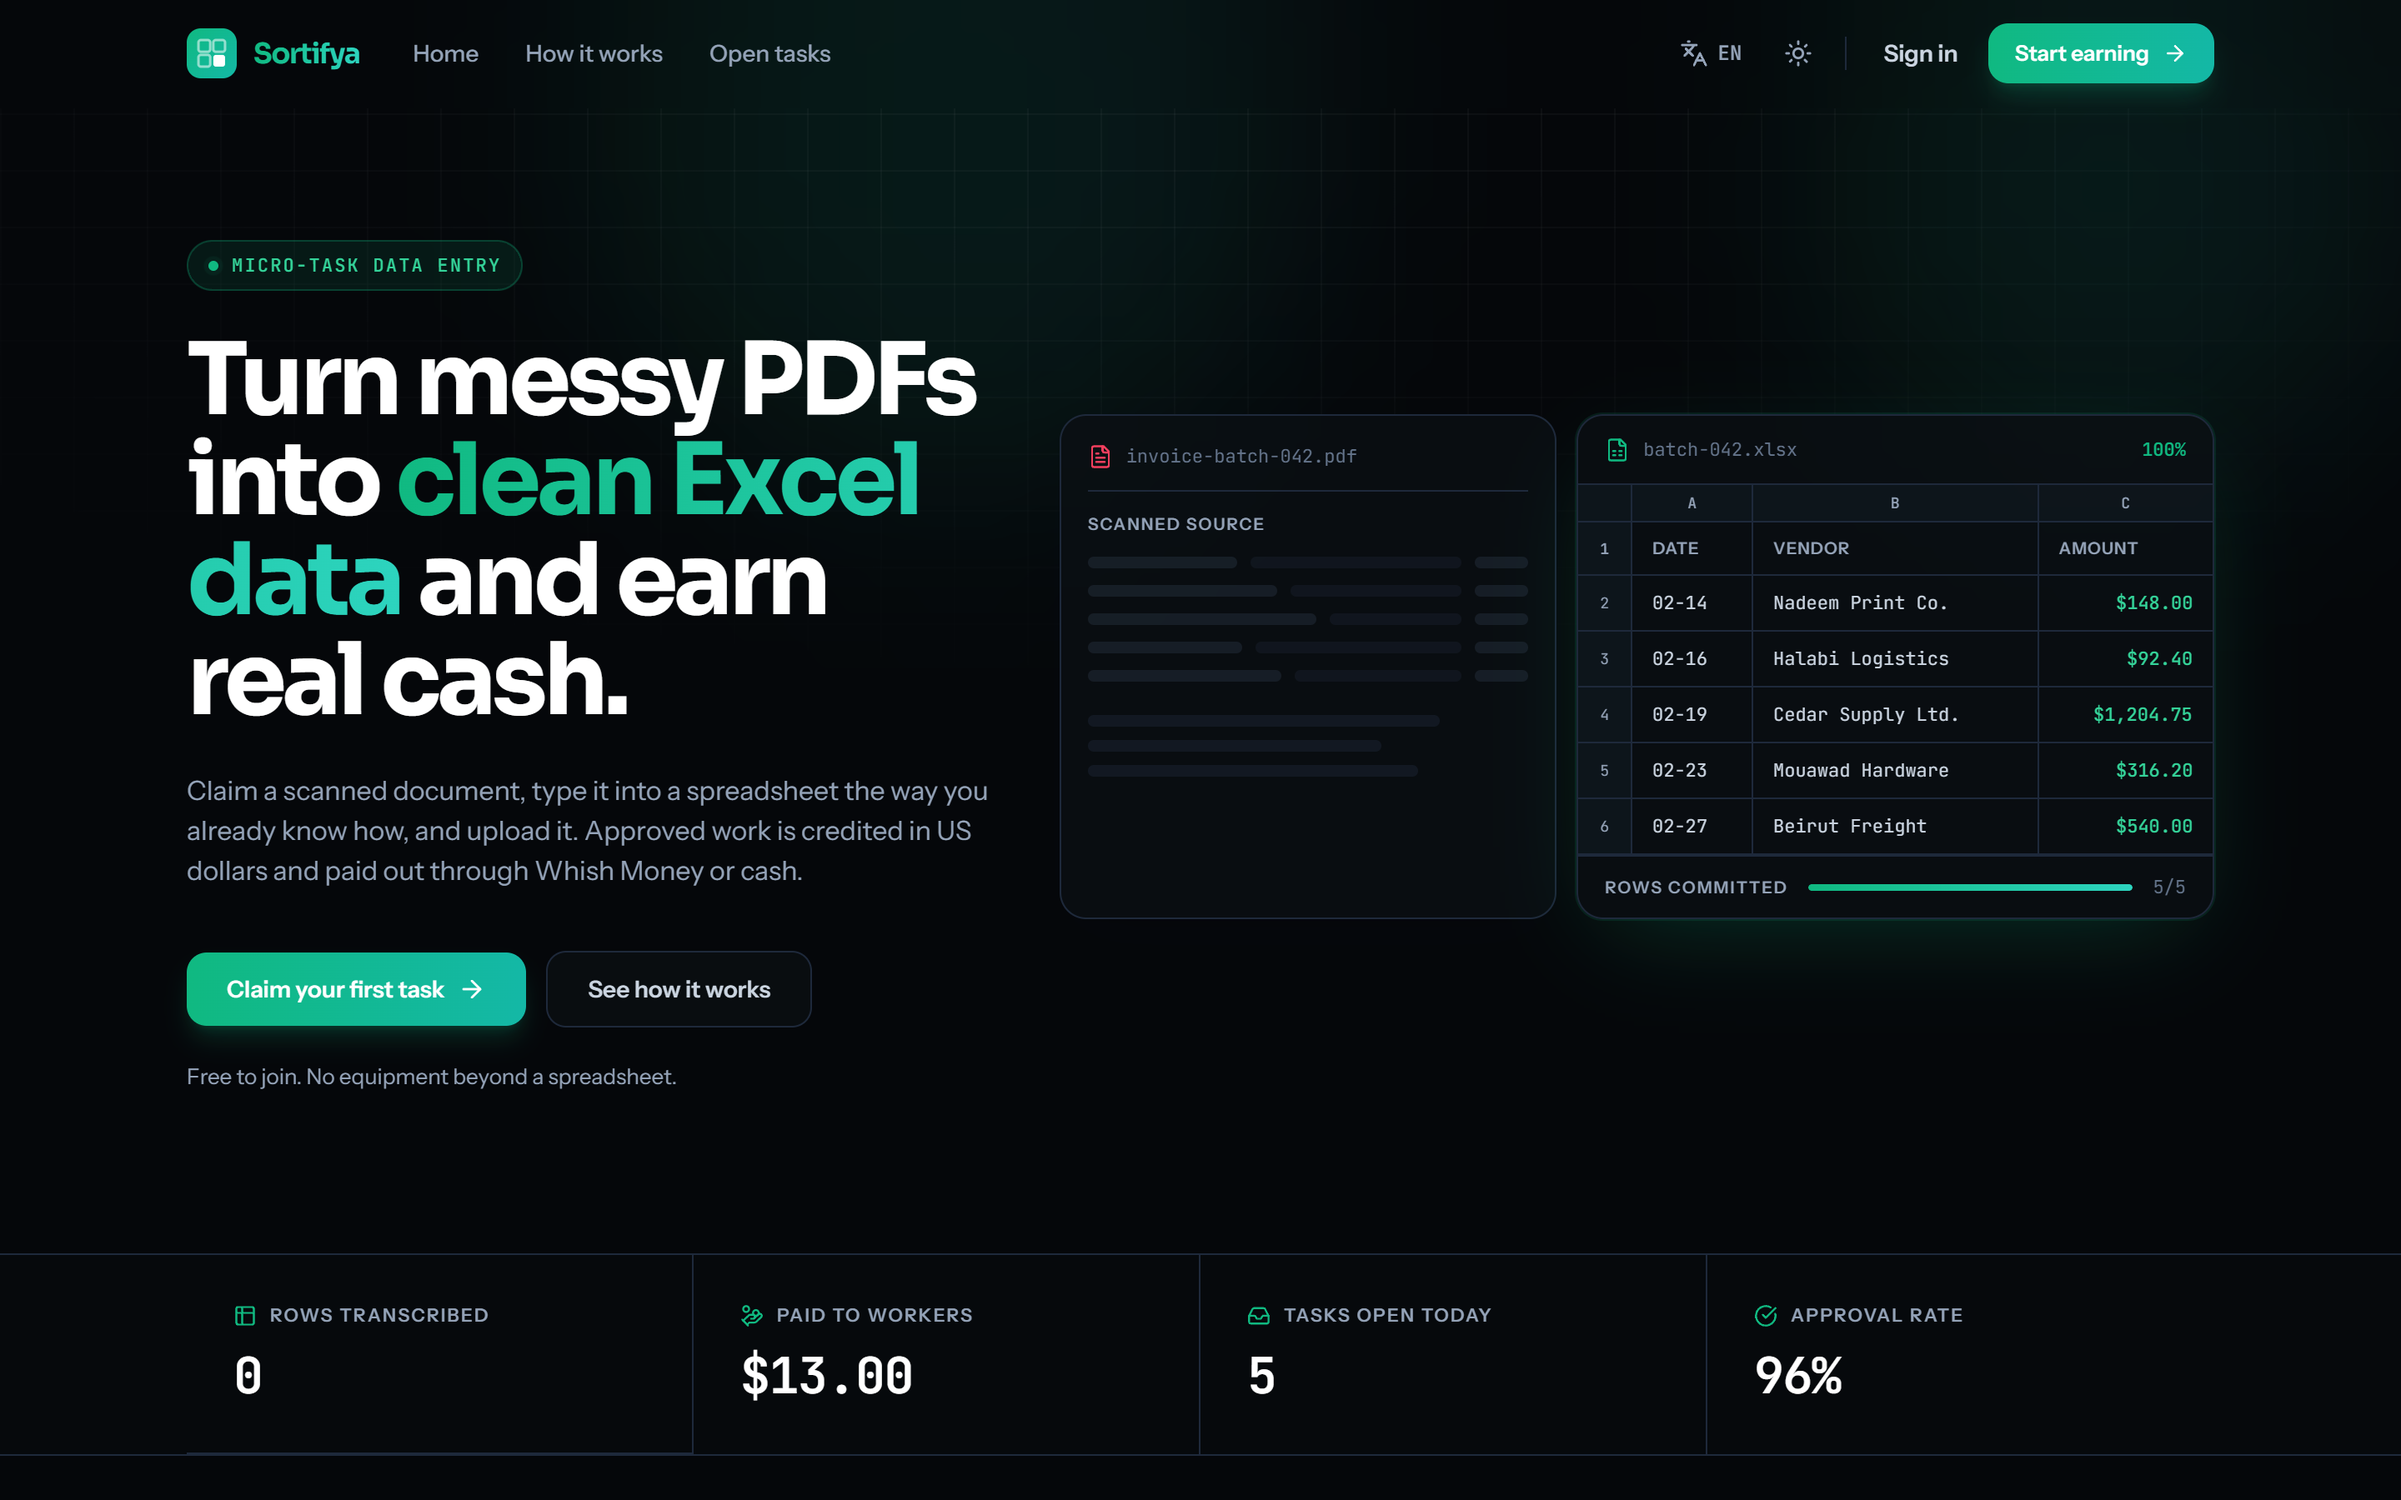
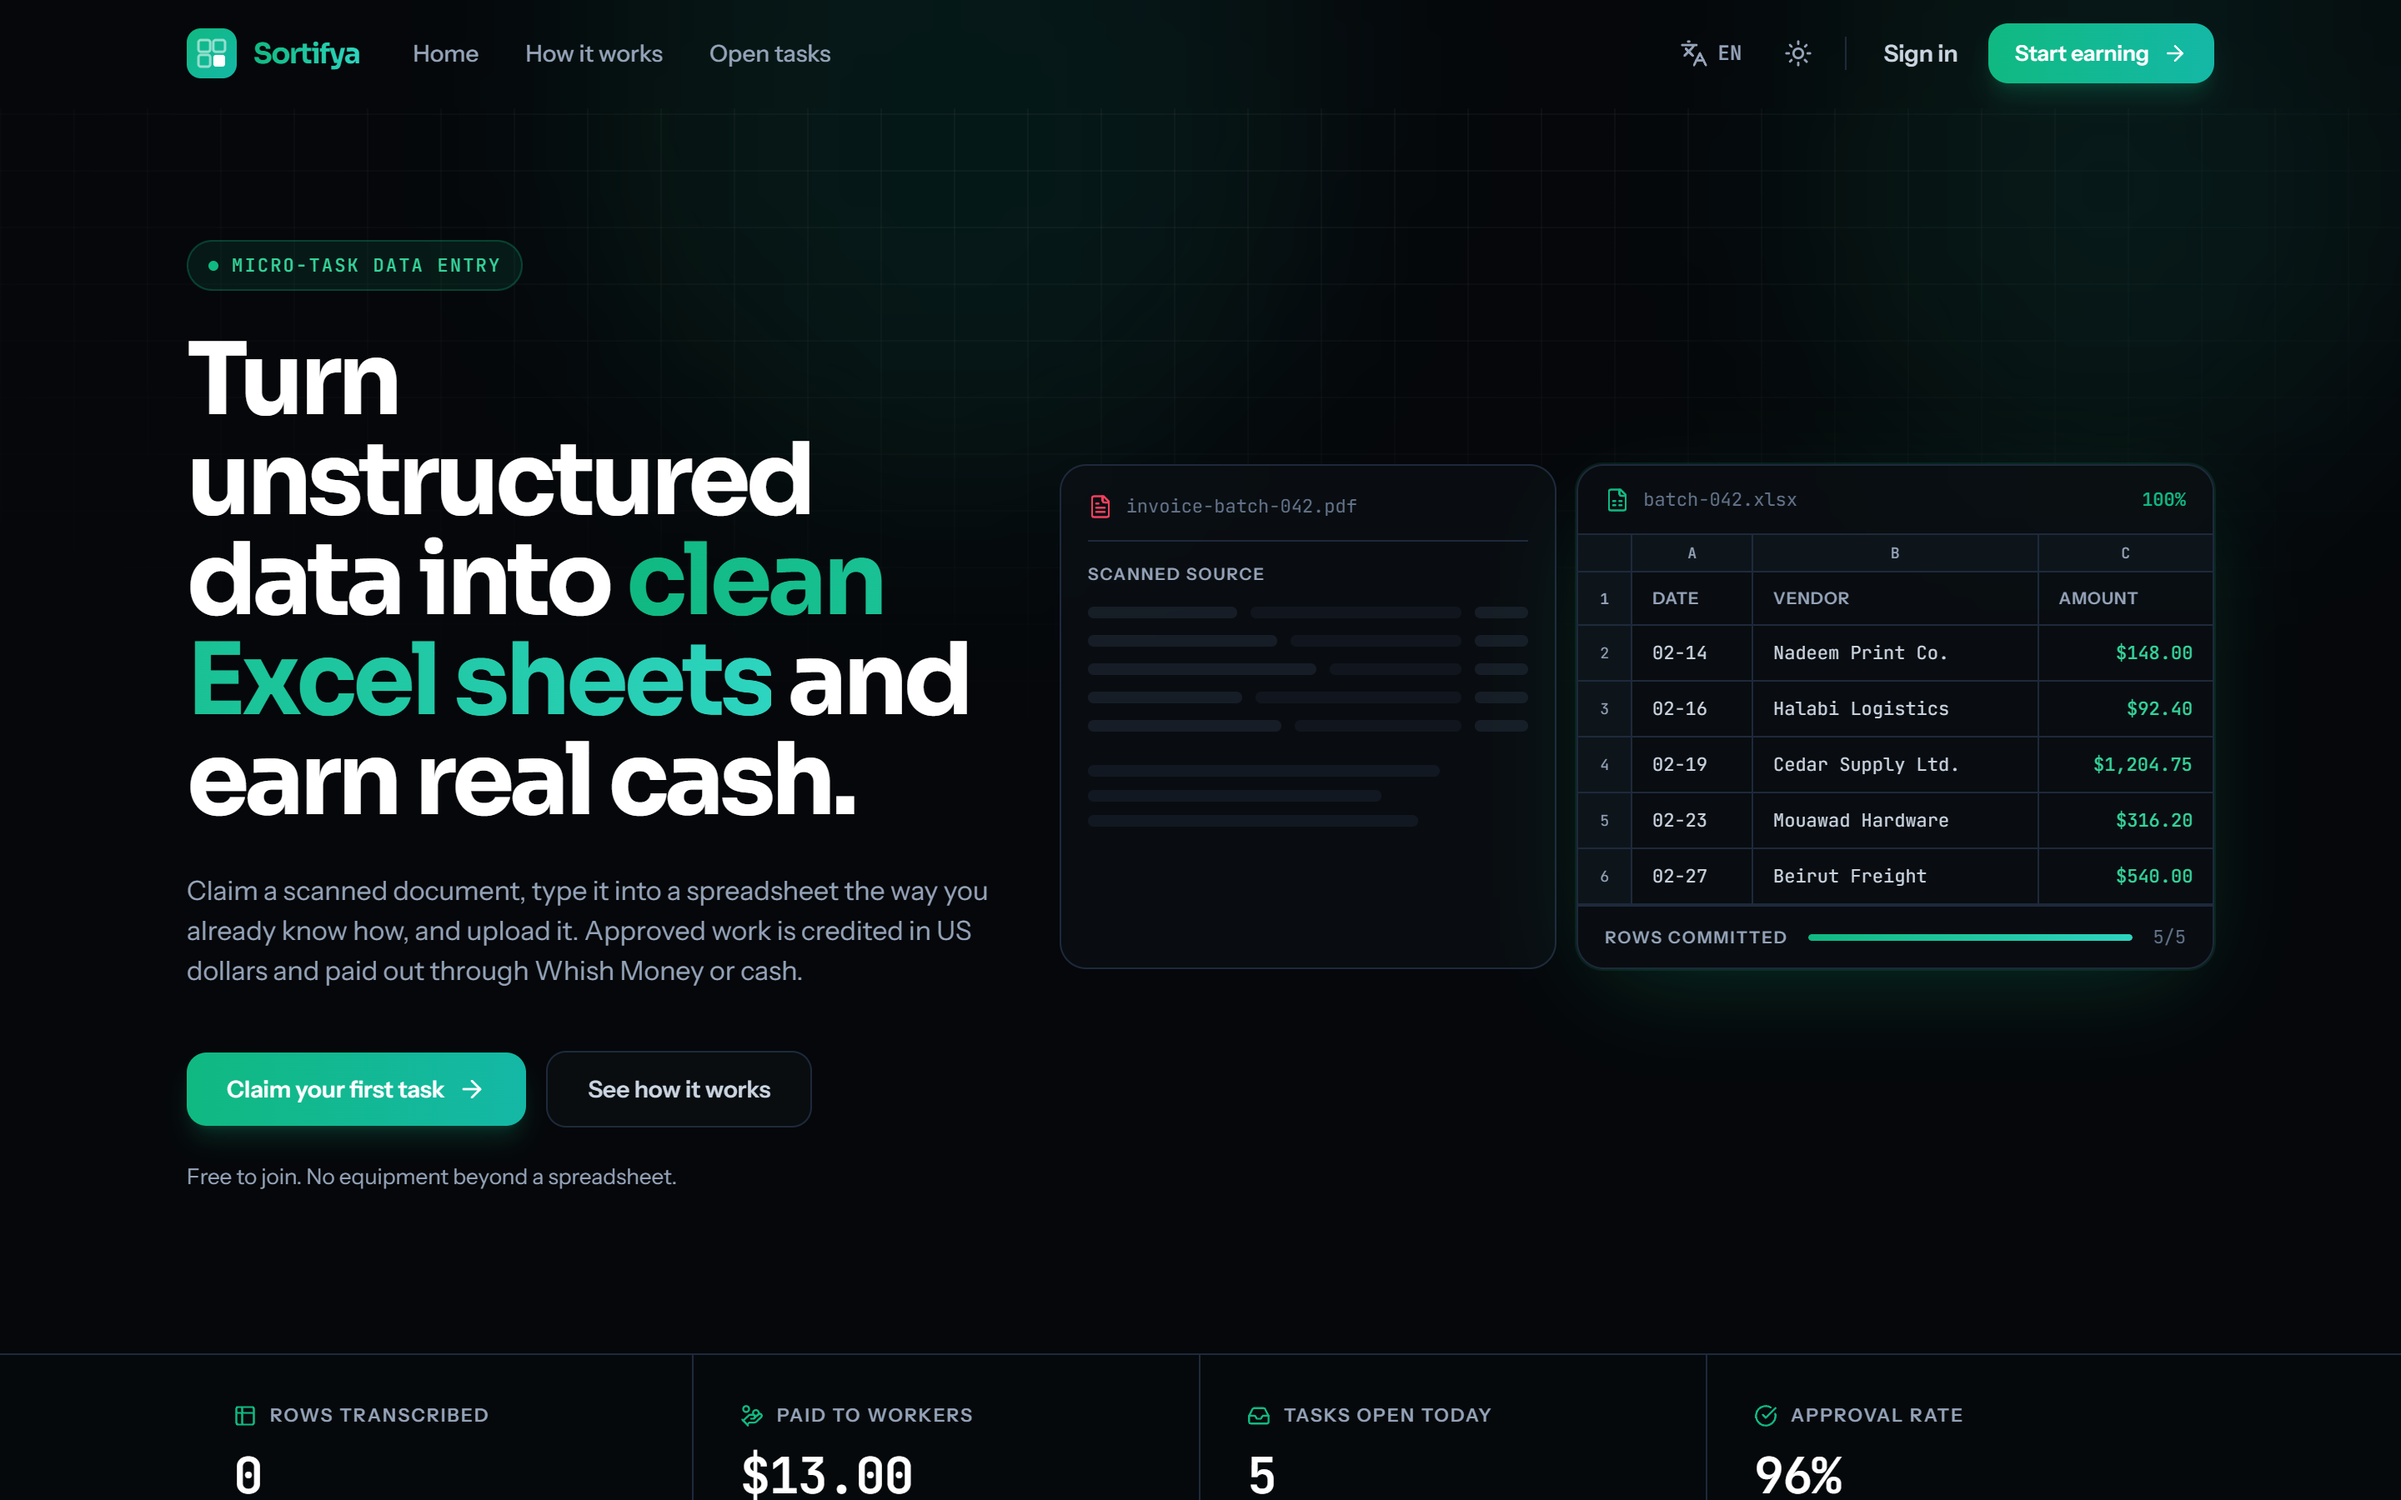
Reword the hero headline, and make asset URLs host-agnostic
The headline now leads with "unstructured data" rather than "messy PDFs",
in both languages. The accent phrase becomes "clean Excel sheets" so the line
does not say data twice; Arabic already read well and only the lead changed.

Also makes the app work over a tunnel. ASSET_URL is now a bare path
(/sortifya/public) instead of a full origin, which emits root-relative asset
and Livewire URLs - so localhost, an https ngrok tunnel, and any future domain
all work from one value with nothing to change per host. Proxy headers are
trusted so Laravel sees HTTPS behind a tunnel that forwards plain HTTP;
without that every generated URL comes back http:// on an https:// page and
browsers block it as mixed content.

Screenshot regenerated, README alt text and the landing-page test assertion
updated to match the new wording.

diff --git a/resources/views/home.blade.php b/resources/views/home.blade.php
@@ -36,7 +36,11 @@
                         {{ __('sortifya.home.eyebrow') }}
                     </span>
 
-                    <h1 class="mt-6 text-[2.6rem] font-bold leading-[1.05] sm:text-6xl lg:text-[3.5rem] xl:text-6xl">
+                    {{-- text-balance evens the rag at the narrower breakpoints.
+                         It is a no-op on the widest one, where "unstructured"
+                         nearly fills the column and browsers stop balancing
+                         past a few lines. --}}
+                    <h1 class="mt-6 text-balance text-[2.6rem] font-bold leading-[1.05] sm:text-6xl lg:text-[3.5rem] xl:text-6xl">
                         {{ __('sortifya.home.hero.title_lead') }}
                         <span class="gradient-text">{{ __('sortifya.home.hero.title_accent') }}</span>
                         {{ __('sortifya.home.hero.title_tail') }}

diff --git a/lang/en/sortifya.php b/lang/en/sortifya.php
@@ -39,8 +39,10 @@ return [
         'eyebrow' => 'Micro-task data entry',
 
         'hero' => [
-            'title_lead' => 'Turn messy PDFs into',
-            'title_accent' => 'clean Excel data',
+            'title_lead' => 'Turn unstructured data into',
+            // "clean Excel data" would repeat "data" from the lead line; the
+            // headline says sheets instead, and keeps Excel.
+            'title_accent' => 'clean Excel sheets',
             'title_tail' => 'and earn real cash.',
             'body' => 'Claim a scanned document, type it into a spreadsheet the way you already know how, and upload it. Approved work is credited in US dollars and paid out through Whish Money or cash.',
             'cta_primary' => 'Claim your first task',

diff --git a/bootstrap/app.php b/bootstrap/app.php
@@ -23,6 +23,14 @@ return Application::configure(basePath: dirname(__DIR__))
         $middleware->alias([
             'active' => EnsureUserIsActive::class,
         ]);
+
+        // ngrok (and any TLS-terminating proxy) forwards the request to Apache
+        // as plain HTTP. Without this Laravel builds http:// URLs on an https://
+        // page, which browsers then block as mixed content.
+        //
+        // '*' is right for a tunnel or a single-host deployment. Behind a real
+        // load balancer, narrow this to its addresses.
+        $middleware->trustProxies(at: '*');
     })
     ->withSchedule(function (Schedule $schedule) {
         // Holds are 45 minutes; sweeping every 5 keeps the queue honest

diff --git a/lang/ar/sortifya.php b/lang/ar/sortifya.php
@@ -39,7 +39,7 @@ return [
         'eyebrow' => 'مهام إدخال بيانات صغيرة',
 
         'hero' => [
-            'title_lead' => 'حوِّل ملفات PDF المبعثرة إلى',
+            'title_lead' => 'حوِّل البيانات غير المنظَّمة إلى',
             'title_accent' => 'جداول Excel مرتّبة',
             'title_tail' => 'واربح نقداً حقيقياً.',
             'body' => 'اختر مستنداً ممسوحاً ضوئياً، وأدخِله في جدول بالطريقة التي تعرفها، ثم ارفعه. يُضاف أجر العمل المقبول بالدولار الأميركي ويُصرف عبر Whish Money أو نقداً.',

diff --git a/tests/Feature/PublicAccessTest.php b/tests/Feature/PublicAccessTest.php
@@ -22,7 +22,7 @@ class PublicAccessTest extends TestCase
         // a 302. An earlier version compared against a hardcoded login URL,
         // which passed vacuously as soon as APP_URL changed.
         $response->assertOk();
-        $response->assertSee('Turn messy PDFs into', false);
+        $response->assertSee('Turn unstructured data into', false);
     }
 
     public function test_the_landing_page_lists_open_tasks_to_a_guest(): void

diff --git a/index.php b/index.php
@@ -1,0 +1,3 @@
+<?php
+header('Location: public/');
+exit;

diff --git a/README.md b/README.md
@@ -4,7 +4,7 @@ A micro-task data entry platform. Workers claim a scanned PDF, transcribe it int
 spreadsheet offline, upload the result, and get paid in US dollars through Whish
 Money or cash once an admin approves it.
 
-![The Sortifya landing page: the headline "Turn messy PDFs into clean Excel data and earn real cash" beside a live panel showing a scanned document resolving into an aligned spreadsheet](docs/landing.png)
+![The Sortifya landing page: the headline "Turn unstructured data into clean Excel sheets and earn real cash" beside a live panel showing a scanned document resolving into an aligned spreadsheet](docs/landing.png)
 
 ```
 Landing page → register → claim a PDF → type it into Excel → upload
@@ -53,12 +53,11 @@ That starts the web server, the task scheduler, and Vite together on
 
 ### Serving it from XAMPP's Apache instead
 
-Dropping the project in `htdocs` puts it in a **subdirectory**, which changes
-two settings. Point both at the public folder:
+Dropping the project in `htdocs` puts it in a **subdirectory**. Set `ASSET_URL`
+to that base path — no scheme, no host:
 
 ```dotenv
-APP_URL=http://localhost/sortifya/public
-ASSET_URL=http://localhost/sortifya/public
+ASSET_URL=/sortifya/public
 ```
 
 Then `php artisan optimize:clear`.
@@ -68,9 +67,26 @@ Then `php artisan optimize:clear`.
 Filament's admin UI is Alpine-driven, a missing Livewire renders `/admin` as a
 **blank page** with the HTML fully present behind it.
 
-Cleaner still is a virtual host pointing `DocumentRoot` at `.../sortifya/public`,
-which puts the app at a domain root and lets both settings stay at their
-defaults.
+Path-only is deliberate: it produces root-relative asset URLs, so one value
+serves `http://localhost`, an `https` tunnel, and any domain you point at the
+app later.
+
+Cleaner still is a virtual host with `DocumentRoot` at `.../sortifya/public`,
+which puts the app at a domain root and lets `ASSET_URL` stay empty.
+
+### Exposing it through a tunnel (ngrok, Cloudflare, …)
+
+Works with the path-only `ASSET_URL` above and nothing else to change. Set
+`APP_URL` to the public address so password-reset mail links resolve:
+
+```dotenv
+APP_URL=https://your-subdomain.ngrok-free.dev/sortifya/public
+```
+
+The app trusts proxy headers (`bootstrap/app.php`), so it sees the request as
+HTTPS even though the tunnel forwards plain HTTP to Apache. Without that, every
+generated URL would come back `http://` on an `https://` page and browsers
+would block it as mixed content.
 
 ### Seeded accounts
 
